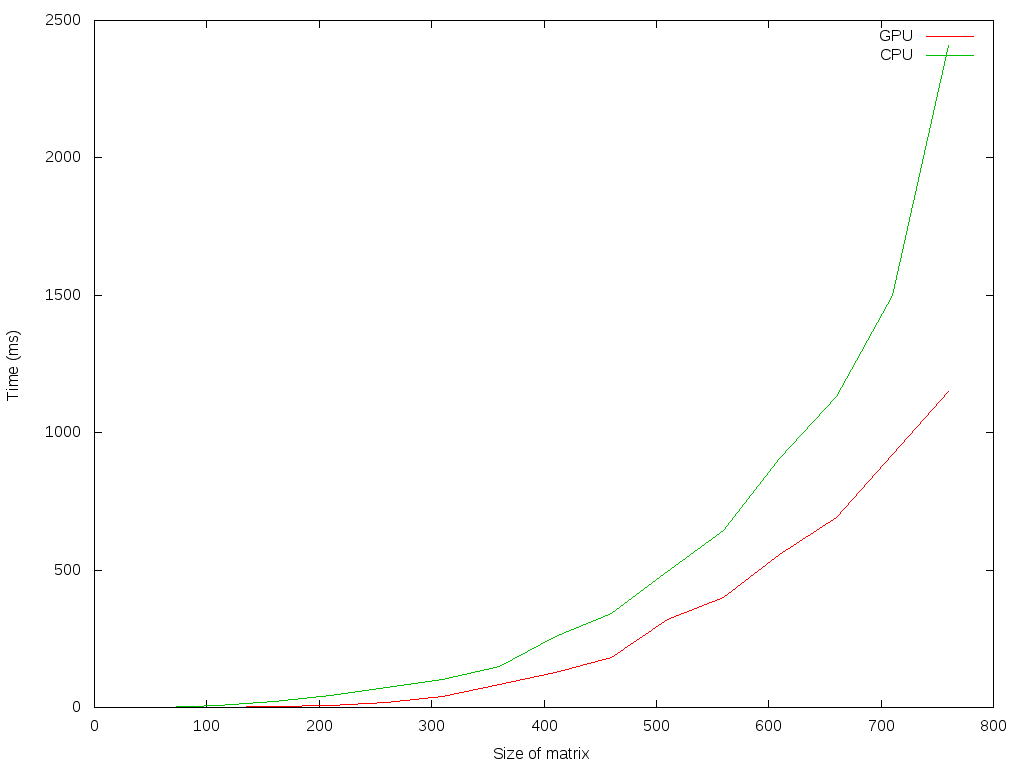
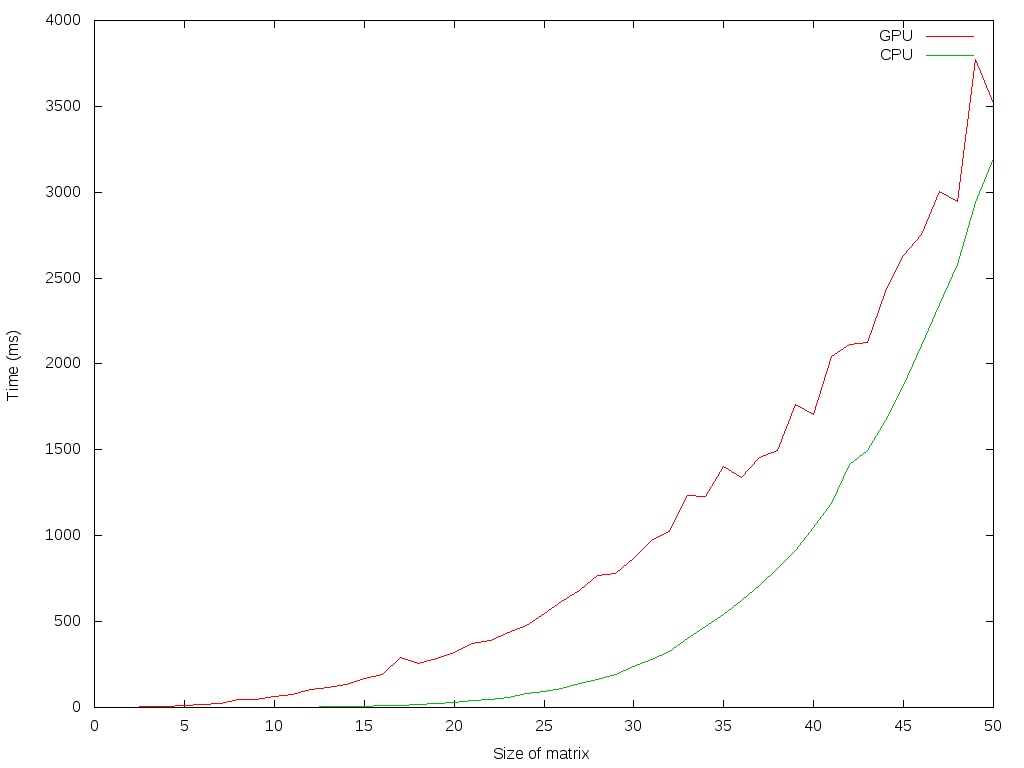
Complete RotateAsync and Just Rotate method

diff --git a/courseProject/testProg.cpp b/courseProject/testProg.cpp
@@ -1,12 +1,14 @@
 #include <CL/cl.h>
 #include <iostream>
 #include <fstream>
-#include <ctime>
+//#include <ctime>
 #include <cmath>
 #include <cstdio>
-#include <unistd.h>
+//#include <unistd.h>
 #include <chrono>
-#include <cstring>
+#include <utility>
+#include <cstdlib>
+//#include <cstring>
 
 #define MAX_SOURCE_SIZE (0x100000)
 
@@ -17,6 +19,17 @@ void checkRet(const cl_int err, const int raw) {
         std::cerr << "Trouble: " << err << " | " << raw << std::endl;
         exit(1);
     }
+}
+
+void Print(const cl_float* matrix, size_t sz) {
+    cout << "**************************************************************************" << endl;
+    for (size_t i = 0; i < sz; ++i) {
+        for (size_t j = 0; j < sz; ++j) {
+            cout << matrix[i * sz + j] << " ";
+        }
+        cout << endl;
+    }
+    cout << "**************************************************************************" << endl;
 }
 
 cl_float Off(cl_float* matrix, cl_uint szMatrix, cl_kernel kernel,
@@ -183,7 +196,9 @@ void RotateMethodGPU() {
     cl_float*   matrixRotateT   = NULL;
     
     ofstream out(plotFileGPU, ios::out);
-    for (cl_uint cnt = 3; cnt <= 3; cnt += 50) {
+    for (cl_uint cnt = 1; cnt <= 50; ++cnt) {
+        auto start = chrono::system_clock::now();
+
         cl_uint szMatrix = cnt;
         size_t global_work_size[2] = { szMatrix, szMatrix };
 
@@ -197,30 +212,36 @@ void RotateMethodGPU() {
         cl_mem      buffMatrixA      = NULL;
         cl_mem      buffMatrixB      = NULL;
         cl_mem      buffMatrixC      = NULL;
-
+        //matrixA[0] = 4;
+        //matrixA[1] = 2;
+        //matrixA[2] = 1;
+        //matrixA[3] = 2;
+        //matrixA[4] = 5;
+        //matrixA[5] = 3;
+        //matrixA[6] = 1;
+        //matrixA[7] = 3;
+        //matrixA[8] = 6;
         for (cl_uint i = 0; i < szMatrix; ++i) {
-            for (cl_uint j = 0; j < szMatrix; ++j) {
-                if (j > i) {
-                    matrixA[i * szMatrix + j] = matrixA[j * szMatrix + i] = i * szMatrix + j + 1;
-                }
-                matrixRotate[i * szMatrix + j] = matrixRotateT[i * szMatrix + j] =
-                    matrixB[i * szMatrix + j] = matrixC[i * szMatrix + j] = 0;
+            for (cl_uint j = i; j < szMatrix; ++j) {
+                matrixA[i * szMatrix + j] = matrixA[j * szMatrix + i] = rand() % 301 - 150;
             }
-        }
-        
-
-        EPSk = Off(matrixA, cnt, kernelComputeNorm, command_queue, context, global_work_size);
-        cout << "# " << EPSk << endl;
+        }        
+        //Print(matrixA, szMatrix);
+        //cout << "CalcNorm" << endl;
+        EPSk = Off(matrixA, szMatrix, kernelComputeNorm, command_queue, context, global_work_size);
         while (EPSk >= EPS) {
-            for (cl_uint k = 0; k < szMatrix; ++k) {
-                matrixRotate[k * szMatrix + k] = 1;
+            for (cl_uint i = 0; i < szMatrix; ++i) {
+                for (cl_uint j = 0; j < szMatrix; ++j) {
+                    matrixRotate[i * szMatrix + j] = (i == j  ? 1 : 0);
+                }
             }
+
             cl_float* maxElem   = (cl_float*)malloc(sizeof(cl_float) * szMatrix);
             cl_int* maxPos      = (cl_int*)malloc(sizeof(cl_int) * max(1u * 2, szMatrix));
             
             cl_mem buffMaxPos       = NULL;
             cl_mem buffMaxElem      = NULL;
-
+            //cout << "FindMax" << endl;
             buffMatrixA  = clCreateBuffer(context, CL_MEM_READ_ONLY, szMatrix * szMatrix * sizeof(cl_float), NULL, &err);
             checkRet(err, __LINE__);    
             buffMaxElem  = clCreateBuffer(context, CL_MEM_READ_WRITE, szMatrix * sizeof(cl_float), NULL, &err);
@@ -245,26 +266,20 @@ void RotateMethodGPU() {
             clReleaseMemObject(buffMatrixA);    
             clReleaseMemObject(buffMaxElem);
             clReleaseMemObject(buffMaxPos);
-
+            
+            //Print(matrixA, szMatrix);
+            
             cl_int i = maxPos[0], j = maxPos[1];
+            //cout << "posMax = (" << i + 1 << "; " << j + 1 << ")" << endl;
             free(maxElem);
             free(maxPos);
-            cout << "# " << i << " | " << j << endl;
             cl_float angel = fabs(matrixA[i * szMatrix + i] - matrixA[j * szMatrix + j])
-                < 0.001 * EPS ? M_PI / 4 :
+                < 0.01 * EPS ? M_PI / 4 :
                 (0.5 * atan(2.0 * matrixA[i * szMatrix + j]
                     / (matrixA[i * szMatrix + i] - matrixA[j * szMatrix + j])));
             matrixRotate[i * szMatrix + i] = matrixRotate[j * szMatrix + j] = cos(angel);
-            matrixRotate[i * szMatrix + j] = -(matrixRotate[j * szMatrix + i] = sin(angel));
-
-            for (size_t i = 0; i < szMatrix; ++i) {
-                for (size_t j = 0; j < szMatrix; ++j) {
-                    cout << matrixRotate[i * szMatrix + j] << " ";
-                }
-                cout << endl;
-            }
-
-
+            matrixRotate[j * szMatrix + i] = -(matrixRotate[i * szMatrix + j] = -sin(angel));
+            //cout << "Transpose" << endl;
             buffMatrixA  = clCreateBuffer(context, CL_MEM_READ_ONLY, szMatrix * szMatrix * sizeof(cl_float), NULL, &err);
             checkRet(err, __LINE__);
             buffMatrixB  = clCreateBuffer(context, CL_MEM_WRITE_ONLY, szMatrix * szMatrix * sizeof(cl_float), NULL, &err);
@@ -285,15 +300,9 @@ void RotateMethodGPU() {
             checkRet(err, __LINE__);
             clReleaseMemObject(buffMatrixA);
             clReleaseMemObject(buffMatrixB);
-
-            for (size_t i = 0; i < szMatrix; ++i) {
-                for (size_t j = 0; j < szMatrix; ++j) {
-                    cout << matrixRotateT[i * szMatrix + j] << " ";
-                }
-                cout << endl;
-            }
-
-
+            //cout << "MultMatrix" << endl;
+            //Print(matrixRotateT, szMatrix);
+            //Print(matrixA, szMatrix);
             buffMatrixA  = clCreateBuffer(context, CL_MEM_READ_ONLY, szMatrix * szMatrix * sizeof(cl_float), NULL, &err);
             checkRet(err, __LINE__);
             buffMatrixB  = clCreateBuffer(context, CL_MEM_READ_ONLY, szMatrix * szMatrix * sizeof(cl_float), NULL, &err);
@@ -319,7 +328,18 @@ void RotateMethodGPU() {
             err = clEnqueueReadBuffer(command_queue, buffMatrixC, CL_TRUE, 0, 
                 szMatrix * szMatrix * sizeof(cl_float), matrixC, 0, NULL, NULL);
             checkRet(err, __LINE__);
-            
+            //clReleaseMemObject(buffMatrixA);
+            //clReleaseMemObject(buffMatrixB);
+            //clReleaseMemObject(buffMatrixC);
+            //buffMatrixA  = clCreateBuffer(context, CL_MEM_READ_ONLY, szMatrix * szMatrix * sizeof(cl_float), NULL, &err);
+            //checkRet(err, __LINE__);
+            //buffMatrixB  = clCreateBuffer(context, CL_MEM_READ_ONLY, szMatrix * szMatrix * sizeof(cl_float), NULL, &err);
+            //checkRet(err, __LINE__);            
+            //buffMatrixC  = clCreateBuffer(context, CL_MEM_WRITE_ONLY, szMatrix * szMatrix * sizeof(cl_float), NULL, &err);
+            //checkRet(err, __LINE__);            
+            //cout << "MultMatrix" << endl;
+            //Print(matrixC, szMatrix);
+            //Print(matrixRotate, szMatrix);
             err = clEnqueueWriteBuffer(command_queue, buffMatrixA, CL_FALSE, 0, 
                 szMatrix * szMatrix * sizeof(cl_float), matrixC, 0, NULL, NULL);        
             checkRet(err, __LINE__);
@@ -339,27 +359,23 @@ void RotateMethodGPU() {
                 szMatrix * szMatrix * sizeof(cl_float), matrixA, 0, NULL, NULL);
             checkRet(err, __LINE__);
 
+            //Print(matrixA, szMatrix);
+
             clReleaseMemObject(buffMatrixA);
             clReleaseMemObject(buffMatrixB);
             clReleaseMemObject(buffMatrixC);
-
-            EPSk = Off(matrixA, cnt, kernelComputeNorm, command_queue, context, global_work_size);
-            cout << "#: " << EPSk << endl;
-            for (size_t i = 0; i < szMatrix; ++i) {
-                for (size_t j = 0; j < szMatrix; ++j) {
-                    cout << matrixA[i * szMatrix + j] << " ";
-                }
-                cout << endl;
-            }
-
+            //cout << "CalcNorm" << endl;
+            EPSk = Off(matrixA, szMatrix, kernelComputeNorm, command_queue, context, global_work_size);
         }
-
-
         free(matrixA);
         free(matrixB);
         free(matrixC);
         free(matrixRotate);
         free(matrixRotateT);
+
+        auto end = chrono::system_clock::now();
+        auto deltaTime = chrono::duration_cast<chrono::milliseconds> (end - start);
+        out << cnt << " " << deltaTime.count() << endl;
     }
     out.close();   
     free(source_str);
@@ -373,38 +389,111 @@ void RotateMethodGPU() {
 
 void RotateMethodCPU() {
     string plotFileCPU = "plotDataCPU";
-    ofstream out(plotFileCPU, ios::out);
-    for (size_t cnt = 10; cnt < 800; cnt += 50) {
-        //size_t cnt = atoi(argv[1]);
-        size_t szMatrix = cnt;
-        cl_float*   matrixA = (cl_float*)malloc(sizeof(cl_float) * szMatrix * szMatrix);
-        cl_float*   matrixB = (cl_float*)malloc(sizeof(cl_float) * szMatrix * szMatrix);
-        cl_float*   matrixC = (cl_float*)malloc(sizeof(cl_float) * szMatrix * szMatrix);
-        for (size_t i = 0; i < szMatrix; ++i) {
-            for (size_t j = i; j < szMatrix; ++j) {
-                matrixA[i * szMatrix + j] = matrixA[j * szMatrix + i] = i * szMatrix + j + 1;
-                matrixB[i * szMatrix + j] = matrixB[j * szMatrix + i] = i * szMatrix + j + 1;
+    cl_float EPS = 0.01;
+    cl_float EPSk;    
+    auto CalcNorm = [](cl_float* matrix, size_t sz) -> cl_float {
+        cl_float sum = 0;
+        for (size_t i = 0; i < sz; ++i) {
+            for (size_t j = 0; j < sz; ++j) {
+                if (i != j) sum += matrix[i * sz + j] * matrix[i * sz + j];
             }
         }
-        auto start = chrono::system_clock::now();
-        for (size_t i = 0; i < szMatrix; ++i) {
-            for (size_t j = 0; j < szMatrix; ++j) {
-                cl_float temp = 0;
-                for (size_t k = 0; k < szMatrix; ++k) {
-                    temp += matrixA[i * szMatrix + k] * matrixB[k * szMatrix + j];    
+        return sqrt(sum);
+    };
+    auto FindMaxABS = [](cl_float* matrix, size_t szMatrix) -> pair<cl_int, cl_int> {
+        cl_int posI, posJ;
+        cl_float _max = -1;
+        cl_int sz = (cl_int)szMatrix;
+        for (cl_int i = 0; i < sz; ++i) {
+            for (cl_int j = 0; j < sz; ++j) {
+                if (i != j) {
+                    if (_max < fabs(matrix[i * sz + j])) {
+                        _max = fabs(matrix[i * sz + j]);
+                        posI = i;
+                        posJ = j;
+                    }
                 }
-                matrixC[i * szMatrix + j] = temp;
             }
         }
+        return make_pair(posI, posJ);
+    };
+    auto TransposeMatrix = [](cl_float* matrix, cl_float* matrixTrans, size_t sz) {
+        for (size_t i = 0; i < sz; ++i) {
+            for (size_t j = 0; j < sz; ++j) {
+                matrixTrans[j * sz + i] = matrix[i * sz + j];
+            }
+        }
+    };
+    auto MultMatrix = [](cl_float* mA, cl_float* mB, cl_float* mC, size_t sz) {
+        for (size_t i = 0; i < sz; ++i) {
+            for (size_t j = 0; j < sz; ++j) {
+                cl_float temp = 0;
+                for (size_t k = 0; k < sz; ++k) {
+                    temp += mA[i * sz + k] * mB[k * sz + j];
+                }
+                mC[i * sz + j] = temp;
+            }
+        }
+    };
+    ofstream out(plotFileCPU, ios::out);
+    for (size_t cnt = 1; cnt <= 50; ++cnt) {
+        auto start = chrono::system_clock::now();
+
+        size_t szMatrix = cnt;
+        cl_float*   matrixA         = (cl_float*)malloc(sizeof(cl_float) * szMatrix * szMatrix);
+        cl_float*   matrixB         = (cl_float*)malloc(sizeof(cl_float) * szMatrix * szMatrix);
+        cl_float*   matrixC         = (cl_float*)malloc(sizeof(cl_float) * szMatrix * szMatrix);
+        cl_float*   matrixRotate    = (cl_float*)malloc(sizeof(cl_float) * szMatrix * szMatrix);
+        cl_float*   matrixRotateT   = (cl_float*)malloc(sizeof(cl_float) * szMatrix * szMatrix);        
+
+
+        for (cl_uint i = 0; i < szMatrix; ++i) {
+            for (cl_uint j = i; j < szMatrix; ++j) {
+                matrixA[i * szMatrix + j] = matrixA[j * szMatrix + i] = rand() % 301 - 150;
+            }
+        }        
+
+        EPSk = CalcNorm(matrixA, szMatrix);
+        while (EPSk >= EPS) {
+            for (cl_uint i = 0; i < szMatrix; ++i) {
+                for (cl_uint j = 0; j < szMatrix; ++j) {
+                    matrixRotate[i * szMatrix + j] = (i == j  ? 1 : 0);
+                }
+            }
+
+            pair<cl_int, cl_int> posMax = FindMaxABS(matrixA, szMatrix);
+
+            cl_int i = posMax.first, j = posMax.second;
+            cl_float angel = fabs(matrixA[i * szMatrix + i] - matrixA[j * szMatrix + j])
+                < 0.001 * EPS ? M_PI / 4 :
+                (0.5 * atan(2.0 * matrixA[i * szMatrix + j]
+                    / (matrixA[i * szMatrix + i] - matrixA[j * szMatrix + j])));
+            matrixRotate[i * szMatrix + i] = matrixRotate[j * szMatrix + j] = cos(angel);
+            matrixRotate[i * szMatrix + j] = -(matrixRotate[j * szMatrix + i] = sin(angel));
+
+            TransposeMatrix(matrixRotate, matrixRotateT, szMatrix);
+            MultMatrix(matrixRotateT, matrixA, matrixC, szMatrix);
+            MultMatrix(matrixC, matrixRotate, matrixA, szMatrix);
+
+            EPSk = CalcNorm(matrixA, szMatrix);
+        }
+        free(matrixA);
+        free(matrixB);
+        free(matrixC);
+        free(matrixRotate);
+        free(matrixRotateT);
+
         auto end = chrono::system_clock::now();
-        auto elapsed_ns = chrono::duration_cast<chrono::milliseconds>(end - start);
-        out << cnt << " " << elapsed_ns.count() << endl;
+        auto deltaTime = chrono::duration_cast<chrono::milliseconds> (end - start);
+        out << cnt << " " << deltaTime.count() << endl;
     }
     out.close();
 }
 
 int main(int argc, char* argv[]) {
+    srand(time(NULL));
     RotateMethodGPU();
-    //RotateMethodCPU();
+    cout << "End GPU" << endl;
+    RotateMethodCPU();
     return 0;
 }
